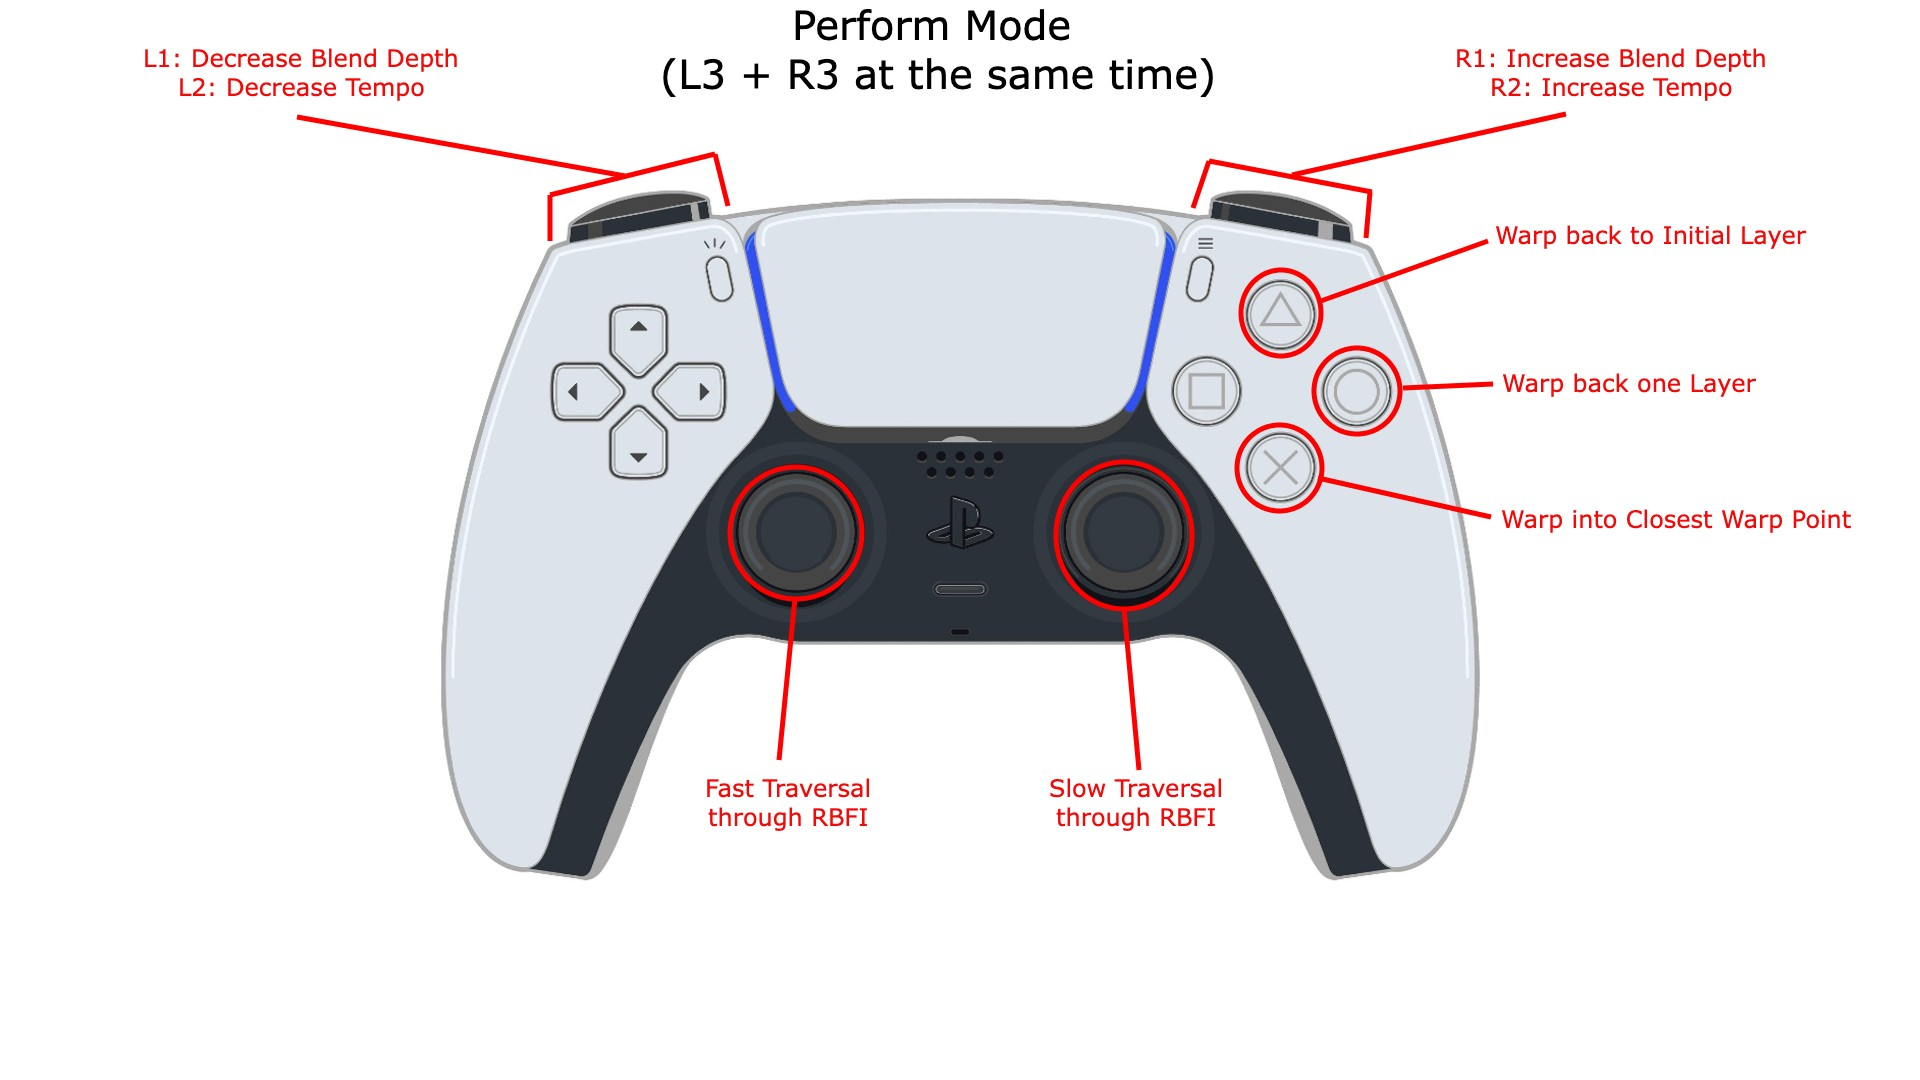
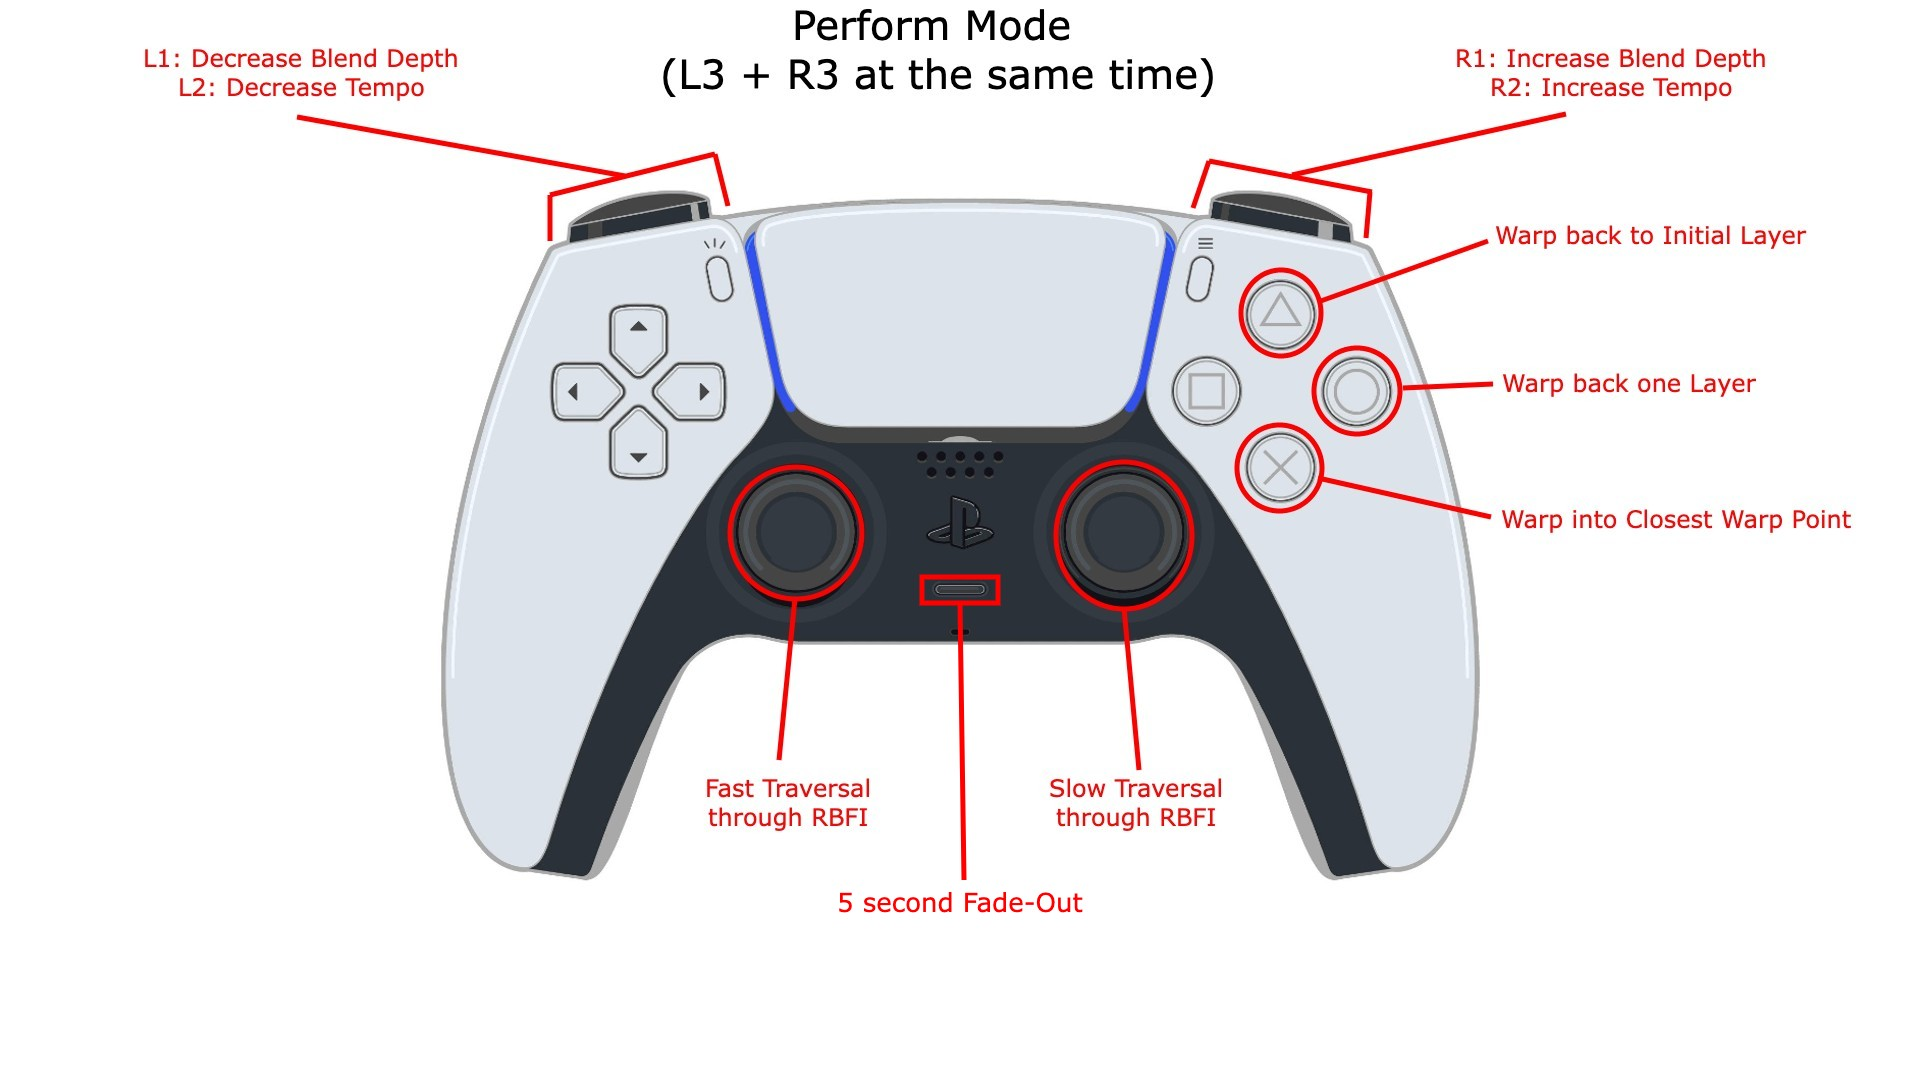
Update controls inn README

Changed region(s): [[0.4688, 0.5194, 0.5312, 0.5806], [0.4375, 0.825, 0.5625, 0.8556], [0.5, 0.7639, 0.5312, 0.7944]]

diff --git a/README.md b/README.md
@@ -24,24 +24,69 @@ If you wish to view the Max patches in the [patchers](https://github.com/gloliva
 ### Switch Modes
 
 ![mode_switch](photos/controls/ModeSwitch.jpg)
+`L3` - Switch to Buffer Mode  
+`R3` - Switch to RBFI Mode  
+`L3 + R3` - Press both L3 and R3 at the same time to switch to Performance Mode
 
 ### Buffer Mode
 
 ![buffer_mode_controls](photos/controls/BufferModeControls.jpg)
+`Left / Right D-pad` - Cycle through Buffers  
+`Up / Down D-Pad` - Cycle through Samples
+
+`X` - Press to Preview Current Sample **|** Press again to stop Preview  
+`Square` - Load selected sample into current Buffer  
+`Triangle` - Clear current Buffer (*Single Tap*) **|** Clear all Buffers (*Triple Tap*)
+
+`L1 / R1` - Decrease / Increase Number of Buffers and Grooves
 
 ### RBFI Mode
 
 ![rbfi_mode_controls](photos/controls/RBFIModeControls.jpg)
+`Left Joystick` - Fast traversal through RBFI space  
+`Right Joystick` - Slow traversal through RBFI space  
+`Left / Right D-pad` - Cycle through Buffers  
+`Up / Down D-Pad` - Cycle through Presets
 
-### Perform Mode
+`X` - Select Point closest to Cursor for Editing **|**  If no closest Point, deselect any active Point  
+`Square` - Place Point associated with current buffer (*No selected point*) **|** Move Point to Cursor Position (*Point Selected*)  
+`Circle` - Warp into Point (*Point Selected*) **|** Warp out of Point (*If Point Selected has been warped into already*)  
+`Triangle` - Delete all Points (*Triple Tap*) **|** Delete Selected Point (*Point Selected*)
+
+`L1 / R1` - Decrease / Increase Blend Depth (*No selected point*) **|** Decrease / Increase Inner Radius (*Point Selected*)  
+`L2 / R2` - Decrease / Increase Tempo (*No selected point*) **|** Decrease / Increase Outer Radius (*Point Selected*)
+
+`Mute Button` - Enable / Disable Preview Mode (*Samples Play as if in Performance Mode*)  
+`Trackpad` - Cycle through RBFI Visual modes  
+`Media Button`  - Load Current Preset  
+`Options Button` - Save to Current Preset
+
+### Performance Mode
 
 ![perform_mode_controls](photos/controls/PerformModeControls.jpg)
+`Left Joystick` - Fast traversal through RBFI space  
+`Right Joystick` - Slow traversal through RBFI space
+
+`X` - Warp into Closest Point  
+`Circle` - Warp Back One Layer  
+`Triangle` - Warp Back to Initial Layer
+
+`L1 / R1` - Decrease / Increase Blend Depth  
+`L2 / R2` - Decrease / Increase Tempo
+
+`Mute Button` - 5 Second Fade Out (*Useful for switching out of Performance Mode*)
 
 ## Mechanics
+
+### Warping
 
 ### Sample Centers
 
 ### Spatial Listening
+
+### Blend and Tempo Changes
+
+As the player moves through the space, the samples
 
 ## Technical Details
 
@@ -50,3 +95,5 @@ If you wish to view the Max patches in the [patchers](https://github.com/gloliva
 ### RBFI Multidimensionality
 
 ### Saving and Restoring Presets
+
+## Future Ambitions
